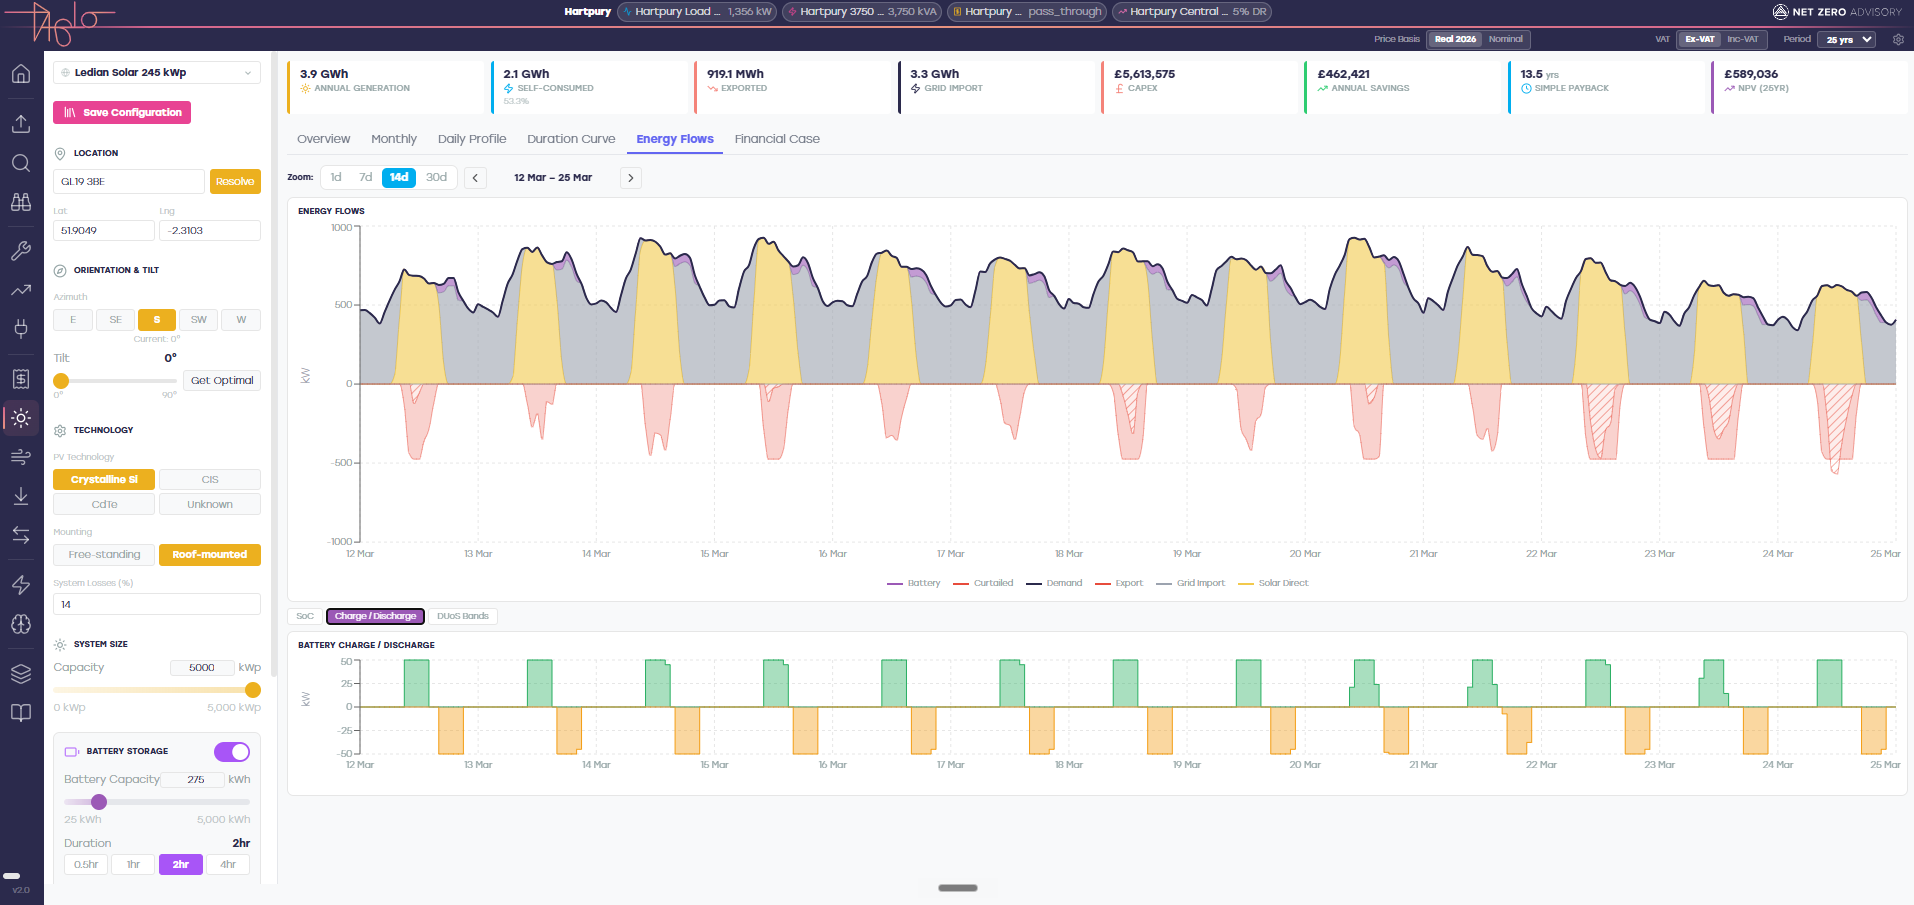
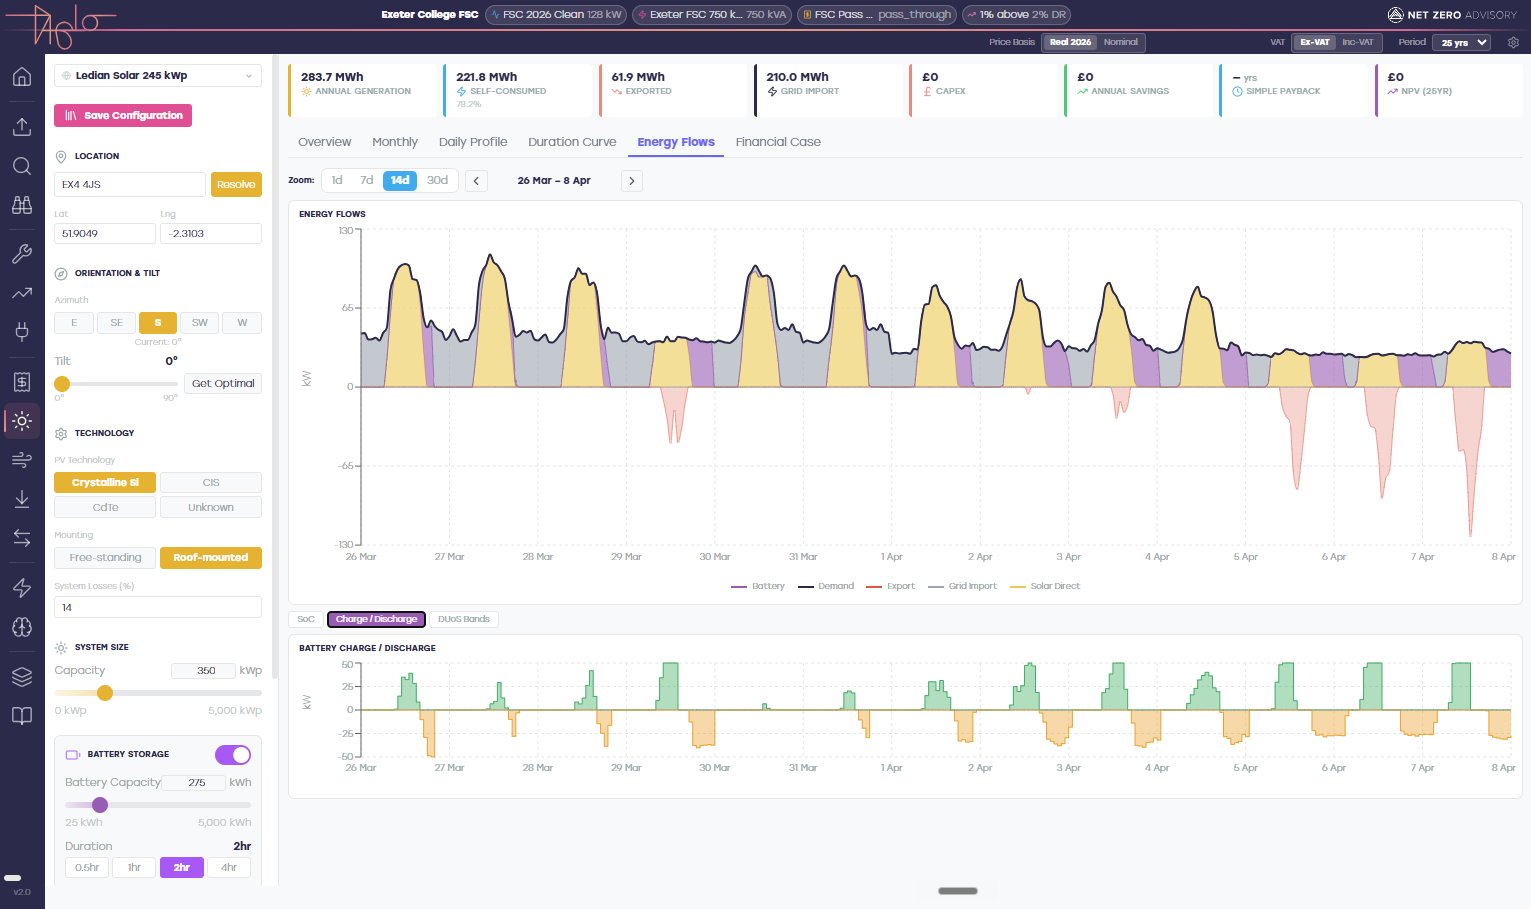
Landing v2 chunk B: How we work SVG visuals (Decode/Build/Partner)
New /src/components/svg/HowWeWorkVisuals.tsx with three inline
SVG components matching the v2 brief's Change 2 spec verbatim:

DecodeVisual - 5x5 grid of 25 cream dots (#EDE5D8), each pulse-
  blurred via the pulseBlur keyframe. Five staggered animation
  variants (3.2-4.1s durations, varied delays) distributed across
  the 25 dots via a pre-shuffled index array so the field reads
  alive but not on a single beat.

BuildVisual - same 5x5 grid coordinates but:
    outer 16 perimeter dots: filled cream
    inner 9 dots: outlined cream (fill: none, stroke 1.5px)
    plus 4 perimeter lines connecting the corners into a frame
  Static, no animation - "the stable, structured state."

PartnerVisual - two overlapping cream-stroked 115x115 squares
  (top-left offset 20/20, bottom-right offset 65/65) with a
  coral-tinted overlap rect in the middle (rgba(247, 90, 85,
  0.3) fill + #F75A55 stroke). Reads as "where the two
  organisations meet."

CSS additions in landing.css:
- pulseBlur keyframe: blur 2.5px / 0.7 opacity at rest, blur 1px /
  1 opacity at peak, ease-in-out
- Five .pulse-dot-{0..4} classes with the 3.2/3.4/3.6/3.8/4.1s
  durations the brief specifies
- prefers-reduced-motion: animation off, settle to a static mid
  state (blur 1.5px, opacity 0.85)

Verified live: Decode 25 dots, Build 29 SVG children (25 dots +
4 frame lines), Partner 3 rects, computed animation-name on a
.pulse-dot reads "pulseBlur".

diff --git a/src/components/svg/HowWeWorkVisuals.tsx b/src/components/svg/HowWeWorkVisuals.tsx
@@ -1,0 +1,148 @@
+/**
+ * The three SVG visualisations inside the "How we work" cards.
+ * Spec lifted verbatim from docs/briefs/nza-landing-page-v2-brief.md
+ * (Change 2 - "The three SVG visualisations").
+ *
+ *   State 1 - Decode   pulsing blurred dot field, 5x5 grid
+ *   State 2 - Build    16 perimeter dots + connecting square frame
+ *                      + 9 outlined inner dots
+ *   State 3 - Partner  two overlapping cream squares with a coral
+ *                      overlap region
+ *
+ * All three SVGs use viewBox 0 0 200 200. Colours per brief:
+ *   #EDE5D8 cream for dots, lines, frames
+ *   #F75A55 coral for accent
+ */
+
+/* 5x5 grid dot coordinates - shared between Decode + Build. */
+const GRID_X = [25, 62.5, 100, 137.5, 175]
+const GRID_Y = [25, 62.5, 100, 137.5, 175]
+
+/* Decode pulse variants distributed across the 25 dots.
+   Pre-shuffled so the field reads as "random" without obvious
+   stripes - same dot index always gets the same variant in a
+   given session (deterministic by index, no random per render). */
+const PULSE_VARIANTS = [0, 3, 1, 4, 2, 2, 4, 0, 3, 1, 1, 0, 4, 2, 3, 3, 2, 1, 0, 4, 4, 1, 3, 2, 0]
+
+/* ============================================================
+   State 1 - DECODE
+   25 cream dots in a 5x5 grid, each blurred + opacity-pulsing
+   at one of 5 staggered durations so the field has no obvious
+   rhythm.
+   ============================================================ */
+export function DecodeVisual() {
+  const dots: Array<{ cx: number; cy: number; variant: number }> = []
+  let i = 0
+  for (const cy of GRID_Y) {
+    for (const cx of GRID_X) {
+      dots.push({ cx, cy, variant: PULSE_VARIANTS[i % PULSE_VARIANTS.length] })
+      i++
+    }
+  }
+  return (
+    <svg viewBox="0 0 200 200" xmlns="http://www.w3.org/2000/svg">
+      {dots.map((d, idx) => (
+        <circle
+          key={idx}
+          cx={d.cx}
+          cy={d.cy}
+          r="7"
+          fill="#EDE5D8"
+          className={'pulse-dot pulse-dot-' + d.variant}
+        />
+      ))}
+    </svg>
+  )
+}
+
+/* ============================================================
+   State 2 - BUILD
+   Outer 16 dots filled + connected by a square frame; inner 9
+   dots outlined. Static, no animation - "the stable, structured
+   state."
+   ============================================================ */
+export function BuildVisual() {
+  return (
+    <svg viewBox="0 0 200 200" xmlns="http://www.w3.org/2000/svg">
+      {/* Perimeter frame connecting the four corner dots */}
+      <line x1="25" y1="25" x2="175" y2="25" stroke="#EDE5D8" strokeWidth="1.5" />
+      <line x1="175" y1="25" x2="175" y2="175" stroke="#EDE5D8" strokeWidth="1.5" />
+      <line x1="175" y1="175" x2="25" y2="175" stroke="#EDE5D8" strokeWidth="1.5" />
+      <line x1="25" y1="175" x2="25" y2="25" stroke="#EDE5D8" strokeWidth="1.5" />
+
+      {/* All 25 dots - outer 16 filled, inner 9 outlined */}
+      {GRID_Y.map((cy, yi) =>
+        GRID_X.map((cx, xi) => {
+          const isPerimeter = yi === 0 || yi === 4 || xi === 0 || xi === 4
+          if (isPerimeter) {
+            return (
+              <circle
+                key={`${xi}-${yi}`}
+                cx={cx}
+                cy={cy}
+                r="7"
+                fill="#EDE5D8"
+              />
+            )
+          }
+          return (
+            <circle
+              key={`${xi}-${yi}`}
+              cx={cx}
+              cy={cy}
+              r="7"
+              fill="none"
+              stroke="#EDE5D8"
+              strokeWidth="1.5"
+            />
+          )
+        }),
+      )}
+    </svg>
+  )
+}
+
+/* ============================================================
+   State 3 - PARTNER
+   Two overlapping cream-stroked squares with a coral-tinted
+   overlap region. No animation - "where the two organisations
+   meet and the active work happens."
+   ============================================================ */
+export function PartnerVisual() {
+  return (
+    <svg viewBox="0 0 200 200" xmlns="http://www.w3.org/2000/svg">
+      {/* Bottom-right square first so the top-left renders ON TOP
+          at the overlap edge - reads as "the existing org meets a
+          partner being placed on top." Either order works
+          aesthetically; this gets the top-left corner crisp. */}
+      <rect
+        x="65"
+        y="65"
+        width="115"
+        height="115"
+        fill="none"
+        stroke="#EDE5D8"
+        strokeWidth="2"
+      />
+      <rect
+        x="20"
+        y="20"
+        width="115"
+        height="115"
+        fill="none"
+        stroke="#EDE5D8"
+        strokeWidth="2"
+      />
+      {/* Coral overlap - the active relationship marker */}
+      <rect
+        x="65"
+        y="65"
+        width="70"
+        height="70"
+        fill="rgba(247, 90, 85, 0.3)"
+        stroke="#F75A55"
+        strokeWidth="1.5"
+      />
+    </svg>
+  )
+}

diff --git a/src/styles/landing.css b/src/styles/landing.css
@@ -786,6 +786,28 @@
   height: 100%;
   display: block;
 }
+
+/* ===== DECODE pulse - blurred dot field with 5 staggered variants
+   so the field reads as alive but not on a single beat. =====
+   Per brief spec: filter blur + opacity oscillation. */
+@keyframes pulseBlur {
+  0%, 100% { filter: blur(2.5px); opacity: 0.7; }
+  50%      { filter: blur(1px);   opacity: 1; }
+}
+.pulse-dot {
+  filter: blur(2px);
+  transform-origin: center;
+  transform-box: fill-box;
+}
+.pulse-dot-0 { animation: pulseBlur 3.4s ease-in-out infinite; }
+.pulse-dot-1 { animation: pulseBlur 3.8s ease-in-out infinite 0.4s; }
+.pulse-dot-2 { animation: pulseBlur 3.2s ease-in-out infinite 0.8s; }
+.pulse-dot-3 { animation: pulseBlur 4.1s ease-in-out infinite 0.2s; }
+.pulse-dot-4 { animation: pulseBlur 3.6s ease-in-out infinite 1.1s; }
+/* Reduced motion - settle to the mid-state, no oscillation. */
+@media (prefers-reduced-motion: reduce) {
+  .pulse-dot { animation: none; filter: blur(1.5px); opacity: 0.85; }
+}
 .how-we-work-card-label {
   margin: 0;
   font-family: ui-monospace, "IBM Plex Mono", SFMono-Regular, Menlo, Consolas, monospace;

diff --git a/src/screens/HowWeWorkSection.tsx b/src/screens/HowWeWorkSection.tsx
@@ -1,4 +1,15 @@
 import { MaskReveal } from '../components/MaskReveal'
+import {
+  DecodeVisual,
+  BuildVisual,
+  PartnerVisual,
+} from '../components/svg/HowWeWorkVisuals'
+
+const VISUALS = {
+  decode: <DecodeVisual />,
+  build: <BuildVisual />,
+  partner: <PartnerVisual />,
+} as const
 
 /**
  * "How we work" - cream section inserted between the client logo
@@ -83,7 +94,7 @@ export function HowWeWorkSection() {
                   className={'how-we-work-card how-we-work-card--' + phase.id}
                   aria-hidden="true"
                 >
-                  {/* SVG visualisation placeholder - replaced in chunk B */}
+                  {VISUALS[phase.id]}
                 </div>
                 <p className="how-we-work-card-label">
                   {phase.number} · {phase.name.toUpperCase()}
